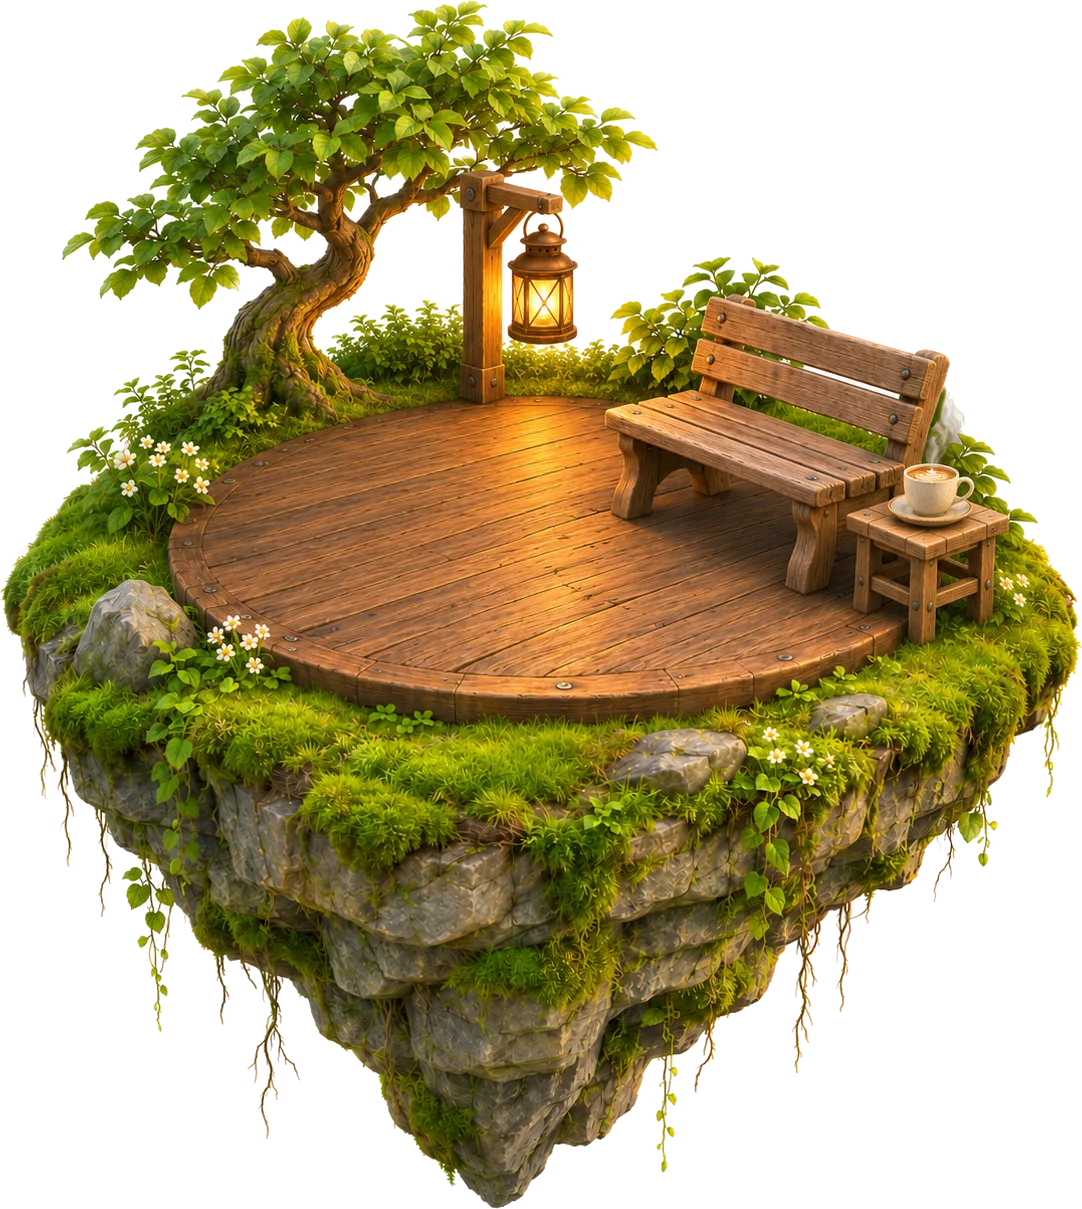
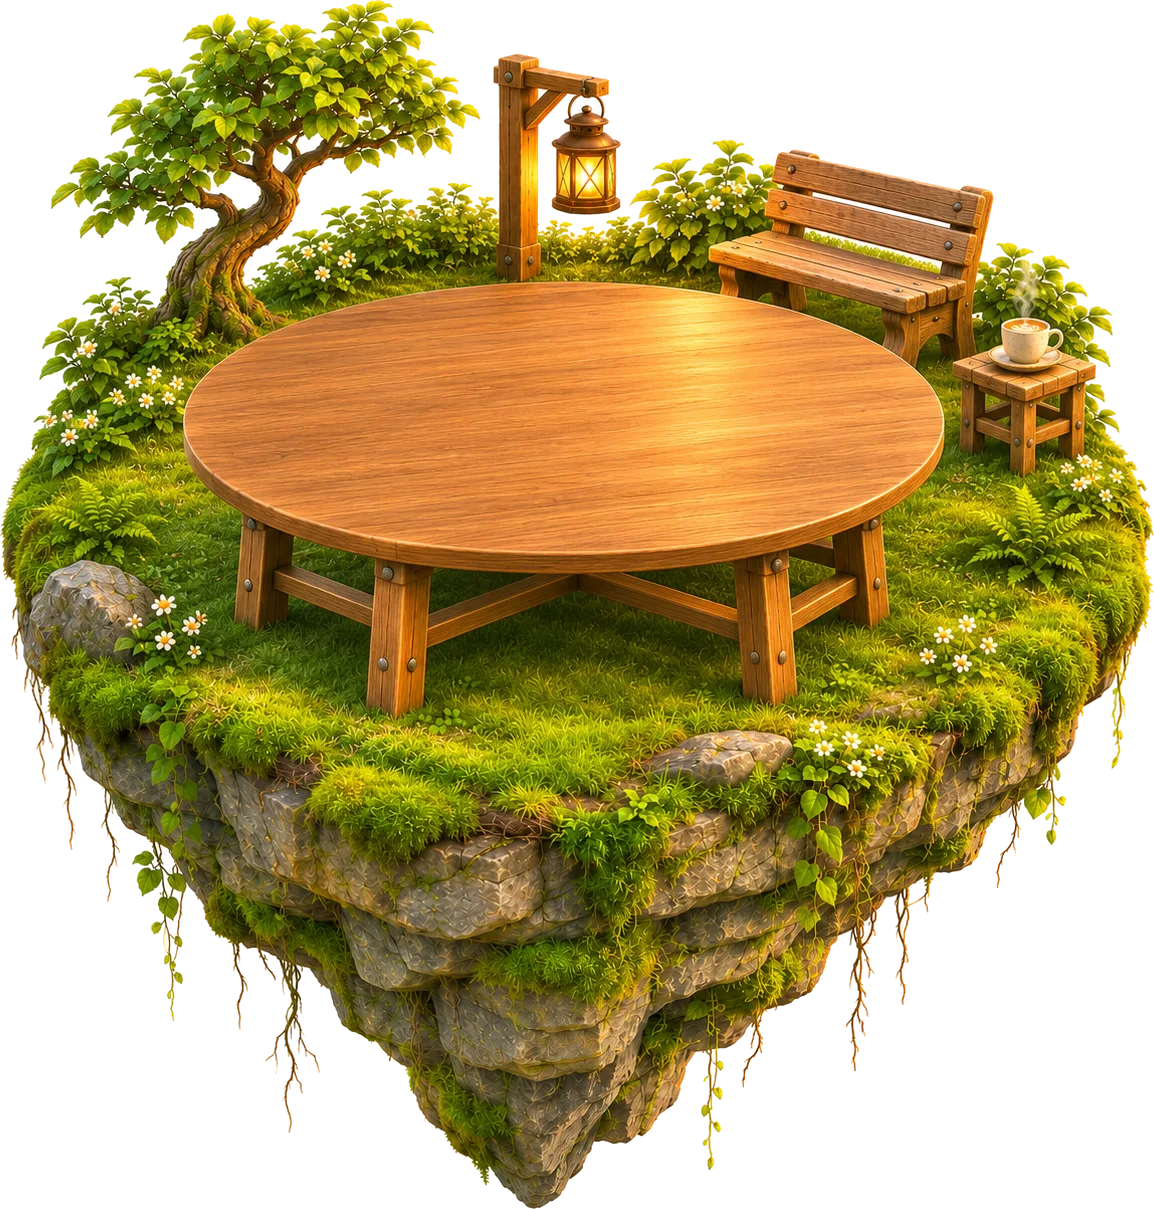
Heute-Insel mit leerem Holztisch, Info-Ring liegt auf der Tischplatte
Claude-Session: https://claude.ai/code/session_01Bea5Y1uKo4kG3DT62iBBFM

diff --git a/src/styles/global.css b/src/styles/global.css
@@ -400,9 +400,9 @@ p { margin: 0; }
 .panel-col > .panel > .panel__body { overflow: auto; min-height: 0; flex: 1 1 auto; scrollbar-width: thin; }
 
 /* ---------- Heute info ring: floating glass ring over the island platform ---------- */
-.inforing { position: absolute; left: 14.5%; top: 9.6%; width: 79%; aspect-ratio: 1; pointer-events: none; animation: fade var(--t-mid) var(--ease) both; }
+.inforing { position: absolute; left: 11.5%; top: -0.5%; width: 76%; aspect-ratio: 1; pointer-events: none; animation: fade var(--t-mid) var(--ease) both; }
 .inforing__tilt { position: absolute; inset: 0; transform-origin: 50% 50%; filter: drop-shadow(0 6px 10px rgba(0,0,0,.35)); animation: ring-hover 6s ease-in-out infinite; }
-.inforing__shadow { position: absolute; left: 12%; right: 12%; top: 36%; height: 32%; border-radius: 50%; background: radial-gradient(50% 50% at 50% 50%, rgba(20,10,0,.38), transparent 70%); filter: blur(4px); animation: ring-hover-shadow 6s ease-in-out infinite; }
+.inforing__shadow { position: absolute; left: 10%; right: 10%; top: 34%; height: 34%; border-radius: 50%; background: radial-gradient(50% 50% at 50% 50%, rgba(20,10,0,.38), transparent 70%); filter: blur(4px); animation: ring-hover-shadow 6s ease-in-out infinite; }
 @keyframes ring-hover { 0%, 100% { translate: 0 0; } 50% { translate: 0 -1.2%; } }
 @keyframes ring-hover-shadow { 0%, 100% { opacity: 1; scale: 1; } 50% { opacity: .8; scale: 1.04; } }
 .inforing__h { position: absolute; transform: translate(-50%, -50%); font-size: clamp(9px, .7cqw, 12px); font-weight: 700; letter-spacing: .04em; color: #fff; text-shadow: 0 1px 3px rgba(0,0,0,.9), 0 0 6px rgba(0,0,0,.5); }

diff --git a/src/scene/Island.tsx b/src/scene/Island.tsx
@@ -5,12 +5,12 @@ import { IArrowR } from '../ui/Icons';
 export const ISLAND_META: Record<LibraryIsland, { w: number; h: number; disc?: { cx: number; cy: number; rx: number; ry: number } }> = {
   werkstatt: { w: 1191, h: 1106 }, elektronik: { w: 1172, h: 1140 }, ideen: { w: 1196, h: 1145 },
   rahmen: { w: 1167, h: 597, disc: { cx: 50, cy: 30, rx: 29, ry: 11 } },
-  heute: { w: 1082, h: 1209 }, material: { w: 1081, h: 1219 }, wetter: { w: 1084, h: 1205 }, archiv: { w: 1079, h: 1205 }, drucker: { w: 1081, h: 1188 },
+  heute: { w: 1154, h: 1209 }, material: { w: 1081, h: 1219 }, wetter: { w: 1084, h: 1205 }, archiv: { w: 1079, h: 1205 }, drucker: { w: 1081, h: 1188 },
   'projekt-garten': { w: 1081, h: 1167 }, 'projekt-haushalt': { w: 1080, h: 1168 }, 'projekt-fahrzeug': { w: 1080, h: 1209 }, 'projekt-buero': { w: 1080, h: 1186 },
   'projekt-hobby': { w: 1079, h: 1204 }, 'projekt-technik': { w: 1086, h: 1208 }, 'projekt-deko': { w: 1081, h: 1196 }, 'projekt-modell': { w: 1080, h: 1195 },
 };
 /** Bump when island sprites change: the CDN and browsers cache /img/* for a year (immutable), so the URL must change. */
-export const ASSET_VERSION = '20261106c';
+export const ASSET_VERSION = '20261106d';
 export const islandSrc = (id: LibraryIsland, w: 1254 | 640 | 256) => `/img/insel-${id}-${w}.webp?v=${ASSET_VERSION}`;
 
 export interface IslandProps {

diff --git a/src/ui/InfoRing.tsx b/src/ui/InfoRing.tsx
@@ -46,7 +46,7 @@ export function useRingData(now: Date) {
  * pearls, a sun/moon "now" marker, upright hour marks, the clock in its centre and the next events as upright tags
  * attached to their position on the ring. Rendered as a child of the island (it floats and scales with it).
  */
-export function InfoRing({ tilt = 68 }: { tilt?: number }) {
+export function InfoRing({ tilt = 70 }: { tilt?: number }) {
   const now = useNow(1000);
   const { sunrise, sunset, arcs, dots, upcoming } = useRingData(now);
   const { tasks, prints } = useStore(useShallow((s) => ({ tasks: s.tasks, prints: s.prints })));
